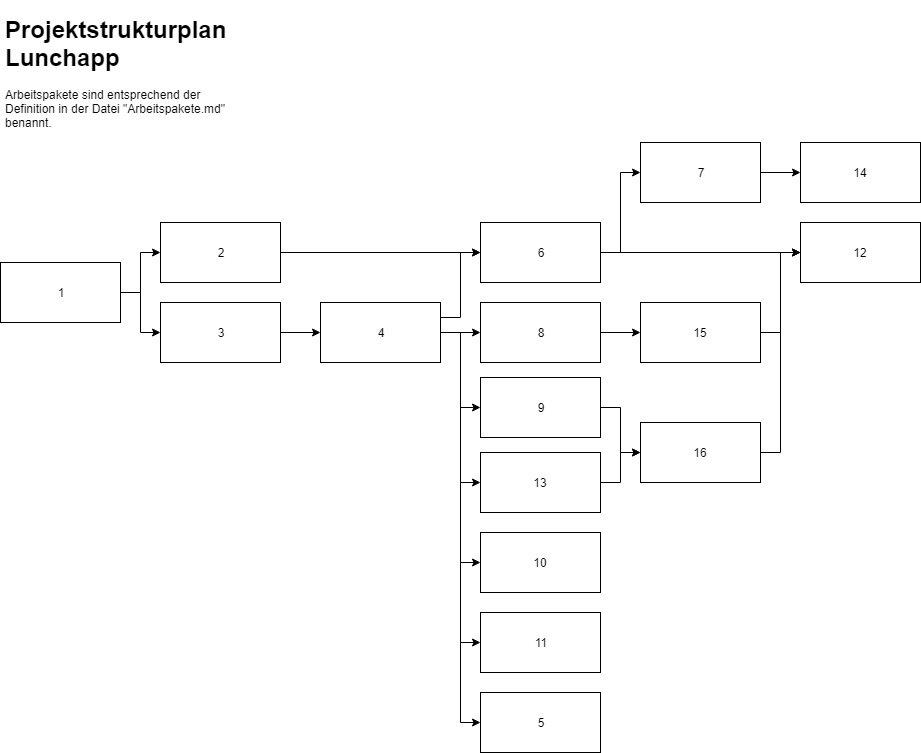
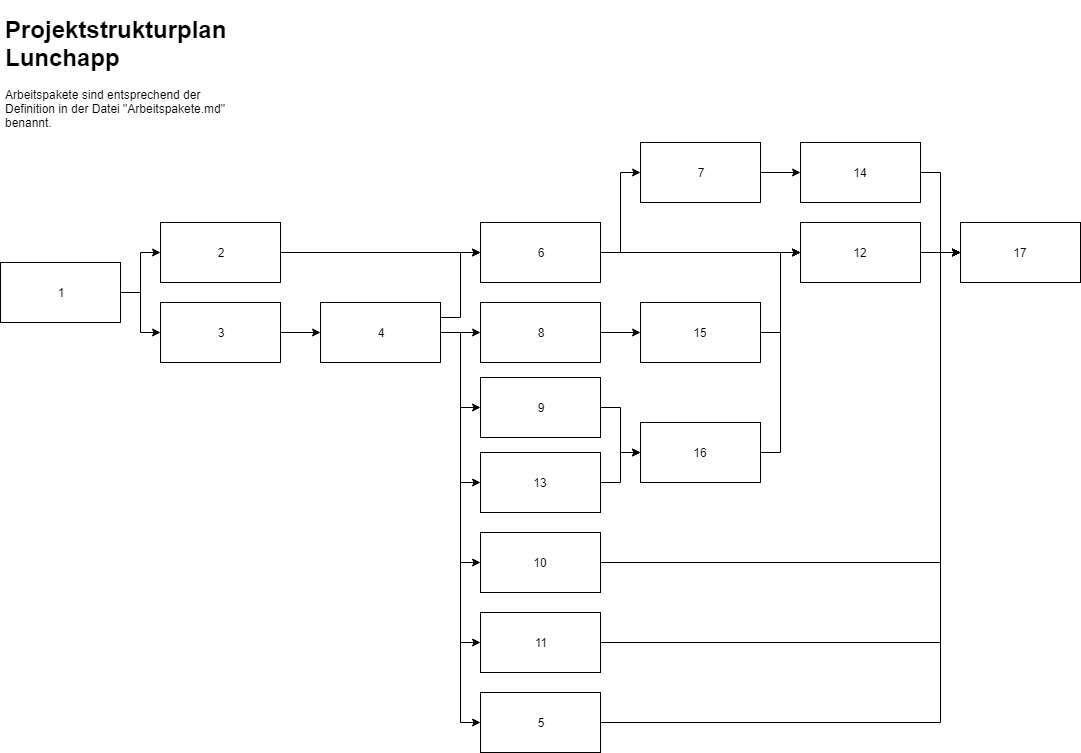
Update Lunchapp Working Packages

diff --git a/portfolio/lunchapp/Pflichtenheft.md b/portfolio/lunchapp/Pflichtenheft.md
@@ -2,11 +2,11 @@
 + Es wird eine Progressive Web App (PWA) erstellt, die auf verschiedenen Plattformen lauffähig ist. 
 + Diese ermöglicht das Anzeigen des Lunchs für die nächsten 5 Tage mit dem Namen, dem Preis sowie den Allergenen und Zusatzstoffen der einzelnen Menüs. 
 + Außerdem werden die Öffnungszeiten sowie eine mögliche Schließung der Kantine angezeigt.
-+ Die Daten zum Lunchmenü und den Öffnungszeiten werden lokal und hart kodiert in einer JSON Datei gemockt. Eine Anbindung an einen echten Datenserver erfolgt nicht. 
++ Die Daten zum Lunchmenü und den Öffnungszeiten werden lokal und hart kodiert in einer JSON Datei gemockt. Eine Anbindung an einen Datenserver erfolgt nicht. 
 + Die Umfragefunktionalität die von PulseShift entwickelt wurde, wird in die Anwendung hineingerendert werden. Das Anzeigen der Umfrage wird nicht selbst implementiert. 
 + Der Server für die Umfragefunktionalität wird austauschbar sein. Damit ist gemeint, dass die URL beliebig definierbar ist.
 + Die Benutzereingrenzung wird nach einer Absprache mit PulseShift über die konkrete gewünschte Ausprägung implementiert.
 + Die Detailansicht der Lunchmenüs soll dynamisch in die View der Übersicht der Lunchmenüs integriert werden.
 + Es wird eine Bannerfunktionalität bereitgestellt, die dynamisch ausgelöst werden soll. Diese weißt den Nutzer auf das Teilen der Anwendung sowie die Möglichkeit zur Umfrage hin.
-+ Für Android Geräte werden Pushbenachrichtigungen implementiert. Für Android ist dies aufgrund der Realisierung als PWA nicht möglich
-+ Die Daten sollen lokal gecached werden, damit die Anwendung auch ohne Internetverbindung genutzt werden kann.
++ Für Android Geräte werden Pushbenachrichtigungen implementiert. Für iOS ist dies aufgrund der Realisierung als PWA nicht möglich.
++ Die Anwendung soll lokal gecached werden, damit sie auch ohne Internetverbindung genutzt werden kann.

diff --git a/portfolio/lunchapp/Arbeitspakete.md b/portfolio/lunchapp/Arbeitspakete.md
@@ -1,20 +1,21 @@
 # Arbeitspakete
 
-**Nr.**|**Name**|**Vorgänger**|**Nachfolger**|**Dauer**
------|-----|-----|-----|-----
-1|Einarbeitung| |2 3| 
-2|Datenmodell erarbeiten (Konzept) + mit Daten füllen|1|6| 
-3|Komponenten definieren|1|4| 
-4|Komponenten anlegen (Rahmen  keine Details)|3|5 6 8 9 10 11 13| 
-5|Navigation implementieren|4| | 
-6|Lunchliste implementieren (ohne draufdrücken)|2 4|7 12| 
-7|Lunchdetails implementieren|6|14| 
-8|Teile Banner|4|15| 
-9|Umfrage Banner|4|16| 
-10|Wochentagwechselfunktionalität|4| | 
-11|Umfrage reinladen|4| | 
-12|Push Notification (Android)|6 15 16| | 
-13|Offline Sync (nur Design cachen)|4|16| 
-14|Kantine wechseln|7| | 
-15|Triggerfunktion Teilen|8|12| 
-16|Triggerfunktion Umfrage (offline nicht verfügbar)|9  13|12| 
+**Nr.**|**Name**|**Vorgänger**|**Nachfolger**|**Verantwortlich**|**Ist-Dauer**|**Deadline**|**Status**|
+-----|-----|-----|-----|-----|----|---|---|
+1|Einarbeitung| |2 3|Julia/Jan|2h/tbd|21.03.2018|
+2|Datenmodell erarbeiten (Konzept) + mit Daten füllen|1|6|Philipp|40min|21.03.2018|**closed**|
+3|Komponenten definieren|1|4|Philipp|30min|21.03.2018|**closed**|
+4|Komponenten anlegen (Rahmen  keine Details)|3|5 6 8 9 10 11 13|Phlipp|30min|21.03.2018|**closed**|
+5|Navigation implementieren|4|17|||04.04.2018|
+6|Lunchliste implementieren (ohne draufdrücken)|2 4|7 12|Philipp||04.04.2018|
+7|Lunchdetails implementieren|6|14|||04.04.2018|
+8|Teile Banner|4|15|||04.04.2018|
+9|Umfrage Banner|4|16|||04.04.2018|
+10|Wochentagwechselfunktionalität|4|17|||04.04.2018|
+11|Umfrage reinladen|4|17| ||11.04.2018|
+12|Push Notification (Android)|6 15 16|17| ||04.04.2018|
+13|Offline Sync (nur Design cachen)|4|16| ||28.03.2018|
+14|Kantine wechseln|7|17| ||11.04.2018|
+15|Triggerfunktion Teilen|8|12|||04.04.2018|
+16|Triggerfunktion Umfrage (offline nicht verfügbar)|9 13|12|||04.04.2018|
+17|Design optimieren|5 11 10 12 14||||13.04.2018|
